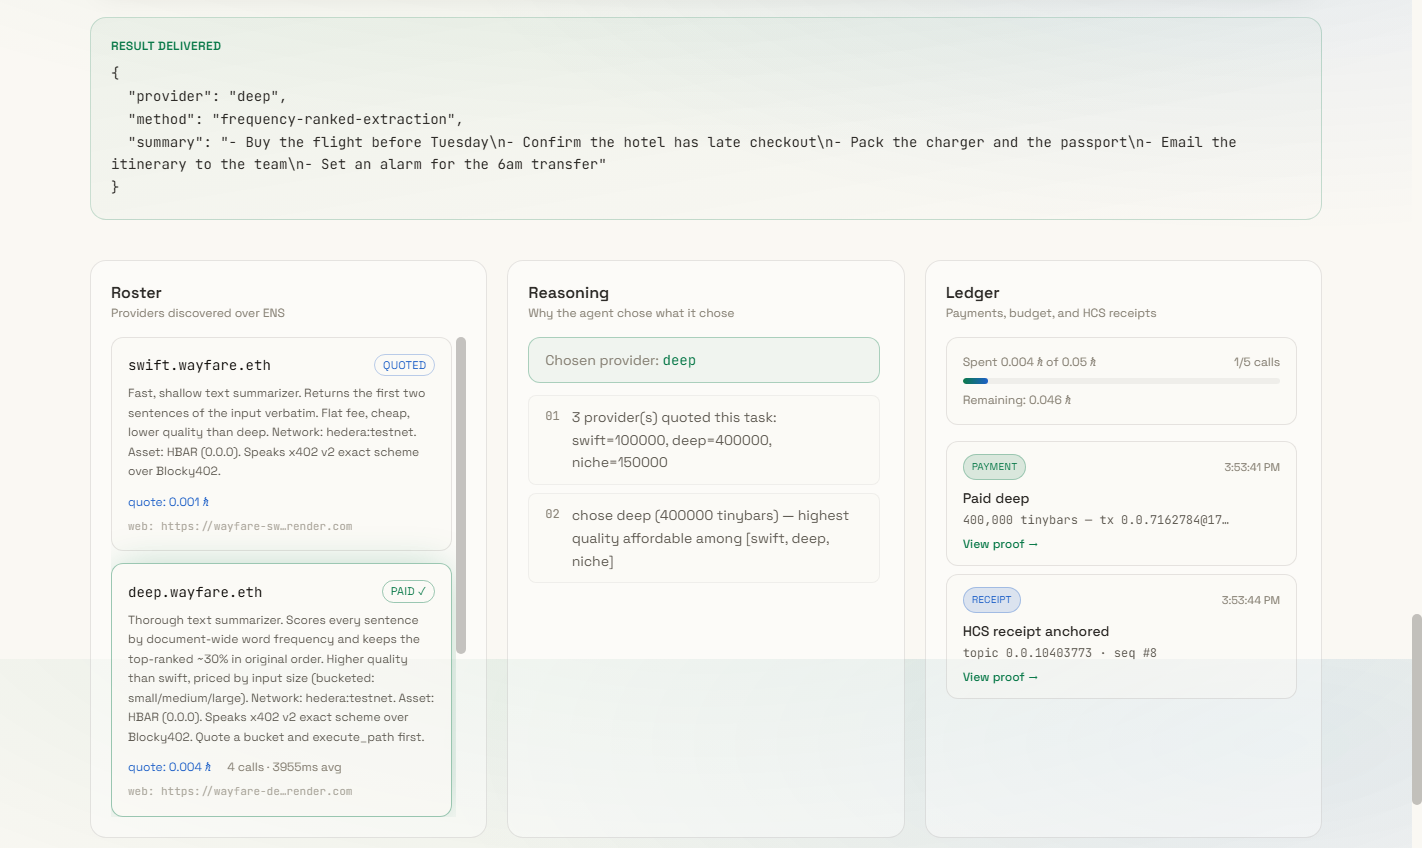
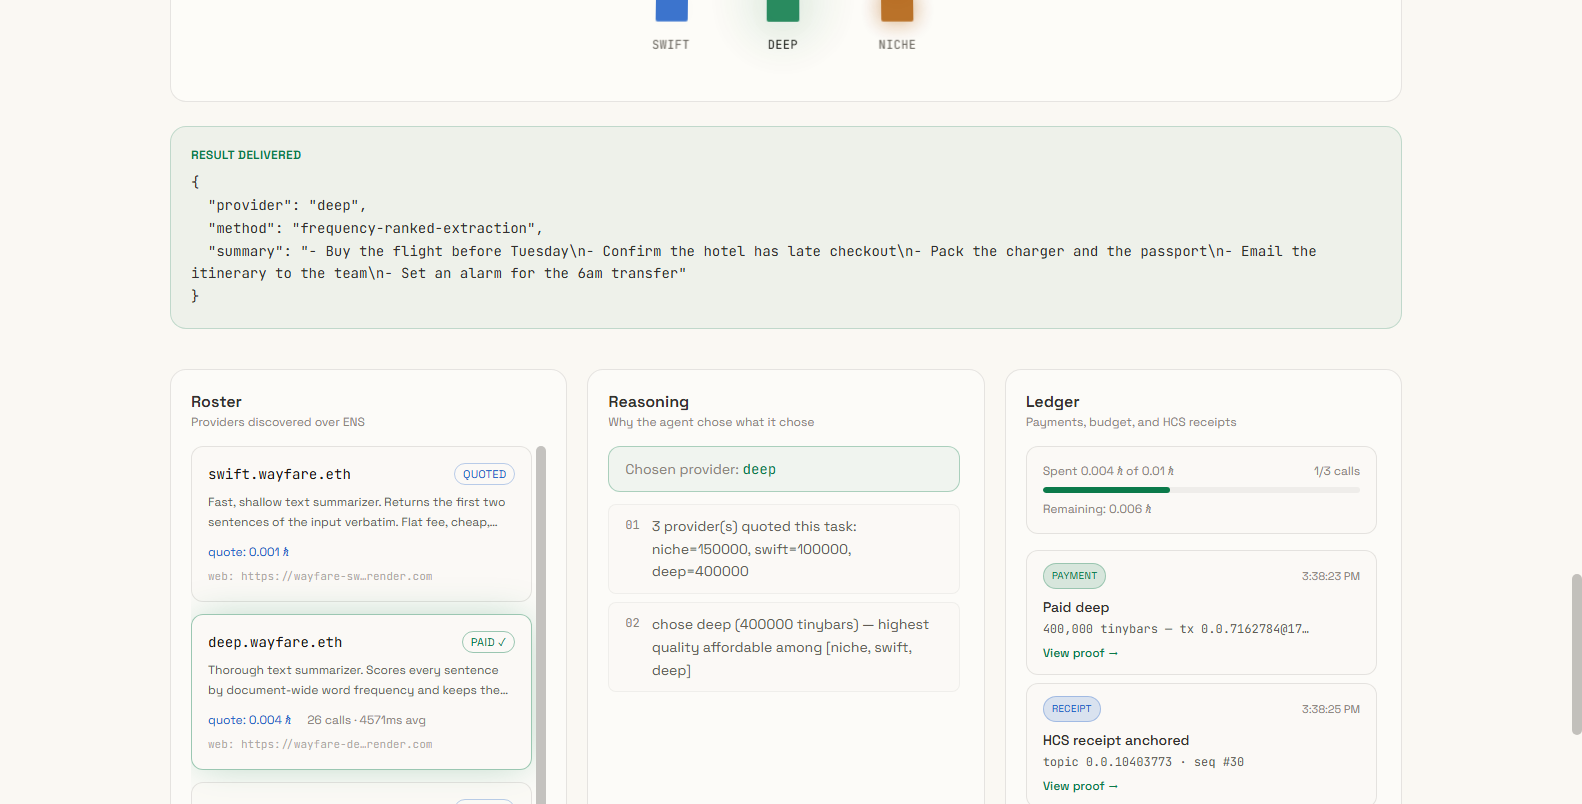
readme: rewrite with real screenshots, rendered architecture diagram, and impact
Replaced the old console/landing screenshots with fresher ones (now showing the agent stage, achievements, and the fully-populated post-run console), added a rendered architecture.png alongside the mermaid source, added HashScan/Mirror Node proof screenshots, a table of contents, badges, and a Future Impact section. Every screenshot is a real capture from this session's live testing, not staged.

diff --git a/README.md b/README.md
@@ -1,11 +1,34 @@
 # Wayfare
 
-An agent that discovers services it has never seen before, pays for them per call on
-Hedera testnet via x402, and leaves a receipt trail anyone can check independently.
+**An agent that discovers services it has never seen before, pays for them per call on
+Hedera testnet via x402, and leaves a receipt trail anyone can check independently.**
 
-![Wayfare's live console mid-run: Roster, Reasoning, and Ledger populated from a real settled payment](docs/screenshot-console.png)
+[![Live app](https://img.shields.io/badge/live-wayfare--web.onrender.com-7dffb3?style=flat-square)](https://wayfare-web.onrender.com)
+[![Hedera testnet](https://img.shields.io/badge/Hedera-testnet-125fbb?style=flat-square)](https://hashscan.io/testnet)
+[![ENSv2](https://img.shields.io/badge/ENS-v2%20beta%20%C2%B7%20Sepolia-5298ff?style=flat-square)](https://docs.ens.domains/ensv2/overview)
+[![x402](https://img.shields.io/badge/payments-x402-ffb37d?style=flat-square)](https://x402.gitbook.io/x402/)
 
-This README tracks what's actually built, not what's planned.
+This README tracks what's actually built, not what's planned. Every claim below links to
+something you can independently verify — a transaction on HashScan, a receipt on Mirror
+Node, or code you can read yourself.
+
+**[Try it live](https://wayfare-web.onrender.com)** — no signup, no API key, no wallet
+needed. Click "Run it yourself" and watch a real agent pay a real invoice.
+
+## Contents
+
+- [The problem](#the-problem)
+- [The solution](#the-solution)
+- [Screenshots](#screenshots)
+- [Architecture](#architecture)
+- [A real run, end to end](#a-real-run-end-to-end)
+- [Status](#status)
+- [Layout](#layout)
+- [Payment stack](#payment-stack)
+- [ENS layer](#ens-layer)
+- [Running it locally](#running-it-locally)
+- [Deployment](#deployment)
+- [Future impact](#future-impact)
 
 ## The problem
 
@@ -15,6 +38,11 @@ in the codebase before the agent ever runs. That's not a market, it's a phone bo
 extra steps. And it quietly skips the actual hard problem: how does an agent find a
 service it's never seen before, decide whether it's worth paying, and prove afterward
 what it got and what it paid?
+
+That gap matters more every year. As more of the software making purchasing decisions is
+an LLM-driven agent rather than a human clicking "buy," the infrastructure for *finding*
+a seller and *proving* a transaction happened needs to be as real as the payment rail
+itself. Most demos skip straight to the payment and skip the market.
 
 ## The solution
 
@@ -31,10 +59,37 @@ all happen at runtime, not in config:
   can verify who got paid, how much, and for what.
 
 Discover → assess → decide → pay → consume → record. `apps/agent/src/runAgent.ts` is the
-whole loop in one file, and it emits a typed event at every step — the live console above
-is just rendering that stream, unmodified.
+whole loop in one file, and it emits a typed event at every step — the live console is
+just rendering that stream, unmodified.
+
+## Screenshots
+
+**Landing page** — the pitch and the three competing providers:
+
+![Wayfare landing page: hero, "shops the open market" pitch, and provider stat row](docs/screenshot-landing.png)
+
+**A real market, not a menu** — swift, deep, and niche, each genuinely different, not
+cosmetic variants of the same call:
+
+![Three provider cards: swift (cheap/shallow), deep (thorough/metered), niche (specialist/strict)](docs/screenshot-howitworks.png)
+
+**The agent stage, live** — three voxel NPCs that react to the actual WebSocket event
+stream (discovered → quoted → declined → chosen → paid), not a separate animation someone
+hand-tuned to look convincing:
+
+![Live agent stage: swift and deep with real quotes shown, deep highlighted as the chosen provider](docs/screenshot-agentstage.png)
 
 ## Architecture
+
+![Architecture diagram: agent discovers providers over ENS, quotes them, pays via x402 through Blocky402 to Hedera testnet, anchors a receipt to HCS, and streams every event to the live console](docs/architecture.png)
+
+The facilitator is the only party that ever touches gas: the agent signs a transfer
+authorizing its own payment, Blocky402 adds the network fee and submits it, and the
+provider never holds a private key at all — confirmed on Mirror Node for every
+settlement (see below).
+
+<details>
+<summary>Mermaid source (renders natively on GitHub too)</summary>
 
 ```mermaid
 flowchart TD
@@ -55,10 +110,27 @@ flowchart TD
     Agent == "WebSocket events" ==> Web["Live console — apps/web"]
 ```
 
-The facilitator is the only party that ever touches gas: the agent signs a transfer
-authorizing its own payment, Blocky402 adds the network fee and submits it, and the
-provider never holds a private key at all — confirmed on Mirror Node for every
-settlement (see Status below).
+</details>
+
+## A real run, end to end
+
+This is a genuine result from a live run, not a mockup — every link below resolves to a
+real, independently-checkable record.
+
+**The console, mid-result** — Roster, Reasoning, and Ledger, all populated from the same
+event stream, plus an achievement toast that only fires off a real settled payment:
+
+![Live console after a completed run: all three providers quoted, deep chosen and paid, reasoning trail and ledger populated, achievement toast visible](docs/screenshot-console.png)
+
+**The settlement, independently verified on HashScan** — not something you have to trust
+from this project's own word:
+
+![HashScan transaction page showing a successful CRYPTO TRANSFER on Hedera testnet](docs/screenshot-hashscan.png)
+
+**The receipt, independently verified on Hedera Mirror Node** — anchored to HCS topic
+`0.0.10403773`, sequence `#30`, pulled straight from Hedera's own public API:
+
+![Raw Mirror Node JSON showing the HCS receipt message for this settlement](docs/screenshot-mirrornode.png)
 
 ## Status
 
@@ -89,17 +161,6 @@ settlement (see Status below).
 - [~] M9 — submission. Demo script and all four sponsor writeups drafted (`docs/`); the
       actual video recording and the Bazantic Recipe above are the two things left, and
       both need a human at the keyboard, not more code.
-
-## Screenshots
-
-Landing page:
-
-![Wayfare landing page: hero, the three providers, the discover/quote/decide/pay steps, and the on-chain proof band](docs/screenshot-landing.png)
-
-The console screenshot at the top of this README is from a real run, captured live — not
-staged: `- Buy the flight before Tuesday` etc. went in, the agent discovered all three
-providers over ENS, quoted all three, picked `deep` (highest quality it could afford),
-paid it for real, and anchored an HCS receipt, all visible in that one screenshot.
 
 ## Layout
 
@@ -194,3 +255,29 @@ isolated from the account used for local development — and runs with tighter g
 than the local defaults (a cooldown between runs, a lifetime spend cap, a shorter max input
 length) specifically because it's reachable by anyone, not because the underlying agent
 logic changes. See `apps/agent/.env.example` for the exact knobs.
+
+## Future impact
+
+Wayfare's actual thesis is narrower than "agents can pay for things" — that part is
+solved. The open problem is *discovery*: an agent that has never seen a service before
+needs a way to find it, price it, and trust the record of what happened, without a human
+pre-wiring the relationship. A few directions this points toward:
+
+- **A real agent-to-agent marketplace.** Nothing about the discovery mechanism is
+  specific to text summarization — the same ENS-subname-as-service-registry pattern works
+  for any metered API. Swap the three providers for inference, data feeds, or compute, and
+  the discover → quote → decide → pay loop doesn't change.
+- **Reputation as a first-class, portable signal.** `wayfare.reputation` already lives on
+  the provider's own ENS name, not in a database Wayfare controls — any other agent, not
+  just this one, could read a provider's track record before ever calling it, and any
+  provider could carry that reputation to a different marketplace entirely.
+- **Multi-agent negotiation.** The current loop is one agent choosing among static quotes;
+  the natural next step is providers that adjust price in response to demand, or agents
+  that negotiate terms via A2A/ACP before a quote is even finalized.
+- **Composability with the wider x402 ecosystem.** Because settlement goes through a
+  standard facilitator (Blocky402) rather than a bespoke payment path, any x402-aware
+  agent — not just Wayfare's — could discover and pay these same providers today.
+
+The throughline: the more of the economy that ends up mediated by agents, the more the
+*market infrastructure* — discovery, pricing, proof — matters as much as the payment rail
+itself. That's the piece this project actually tried to build, not the payment.
